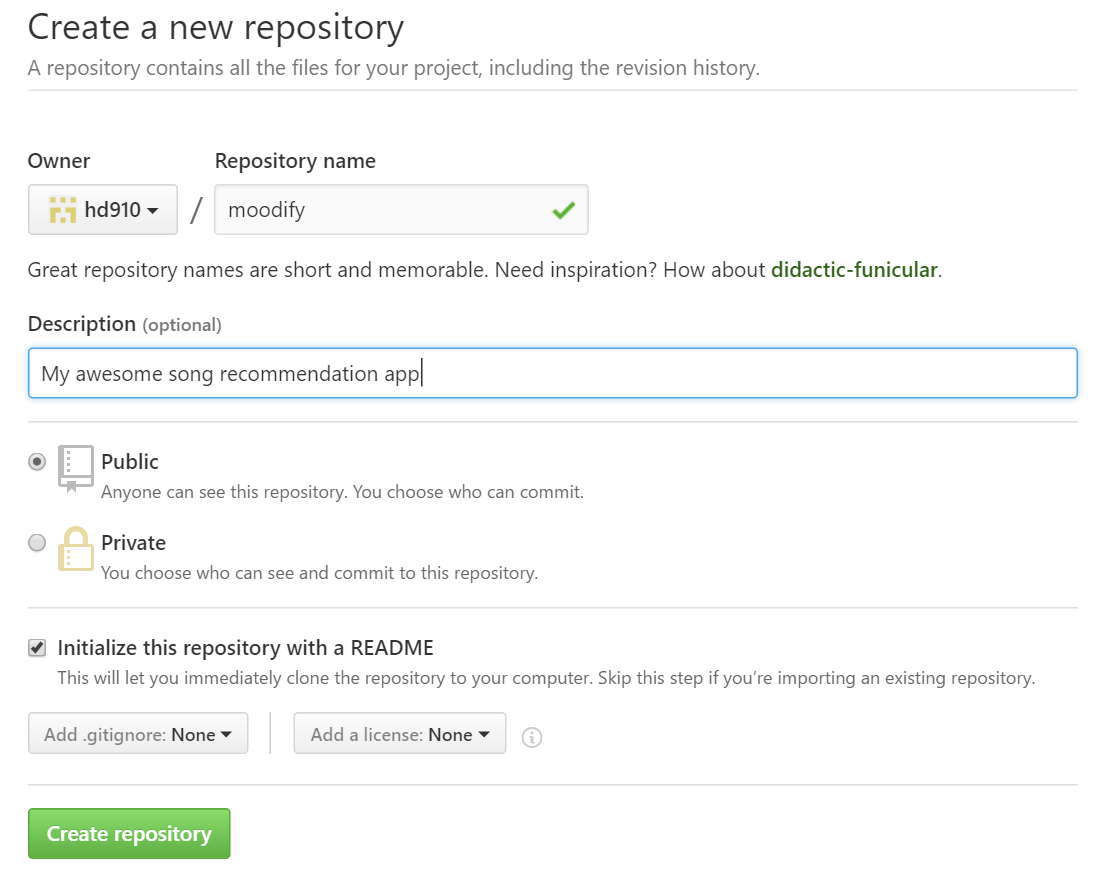
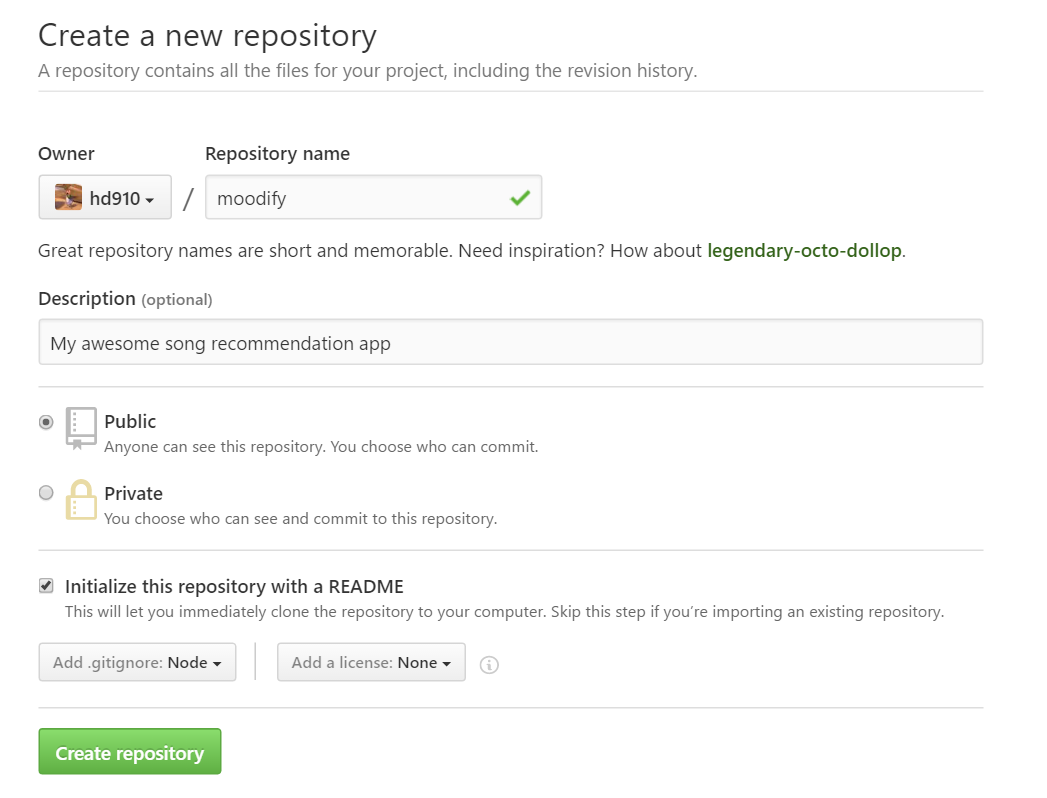
Add gitignore instructions

diff --git a/6. Source Control/readme.md b/6. Source Control/readme.md
@@ -27,7 +27,9 @@ Open up GitHub and create a 'New Repository' by clicking on the 'plus' icon on t
 
 Give your repository a name and description. You choose to keep the repository public (others can see the source code) or private. 
 
-You can also choose to initialise with a README if you want. 
+You can also choose to 
+* initialise with a README 
+* add a gitignore for Node (which will ignore certain files that don't need to be uploaded) 
 
 When you are ready, press 'Create repository'
 
@@ -50,7 +52,8 @@ When you are in the directory, type `clone https://github.com/YOUR_ID/YOUR_GITHU
 ## Step 4: Add Project Files
 Open up your file explorer and navigate to the directory where you cloned your repository files (for me it is C:\Users\Hayden\Documents\GitHub\moodify)
 
-Move your entire project files and folder here
+Move your entire project files and folder here  
+(Note: your project files and folder will look different to the screenshot)
 
 ![Copy Files](img/copy_files.PNG)
 
@@ -144,3 +147,4 @@ Merge a branch with the currently selected branch. In an actual team, you may ne
 ### Extra Learning Resources
 * [GitHub Online Training](https://try.github.io/)
 * [GitHub Guide](https://guides.github.com/)
+* [Emmet Snippet Extension Cheat Sheet](http://docs.emmet.io/cheat-sheet/)
